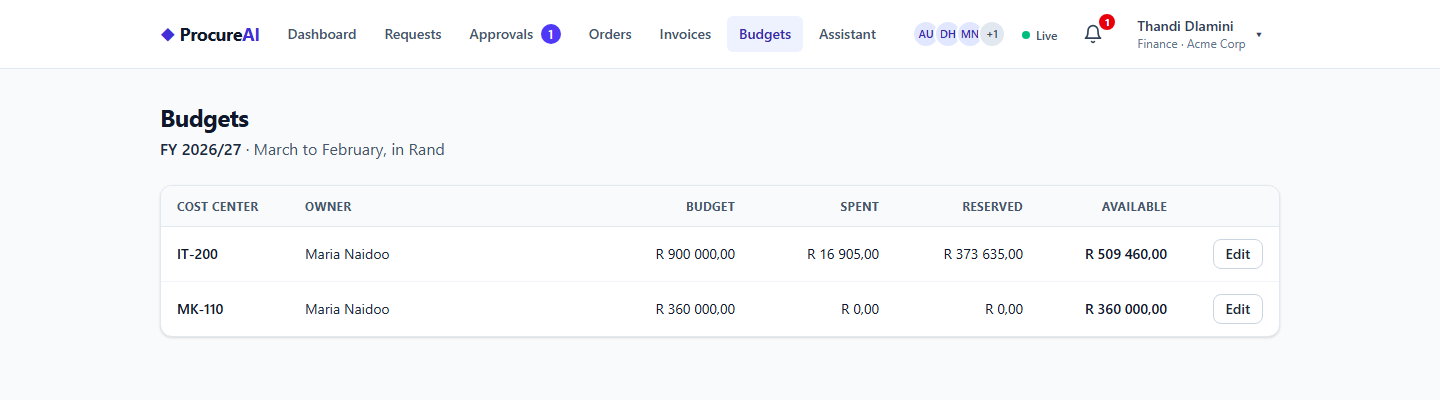
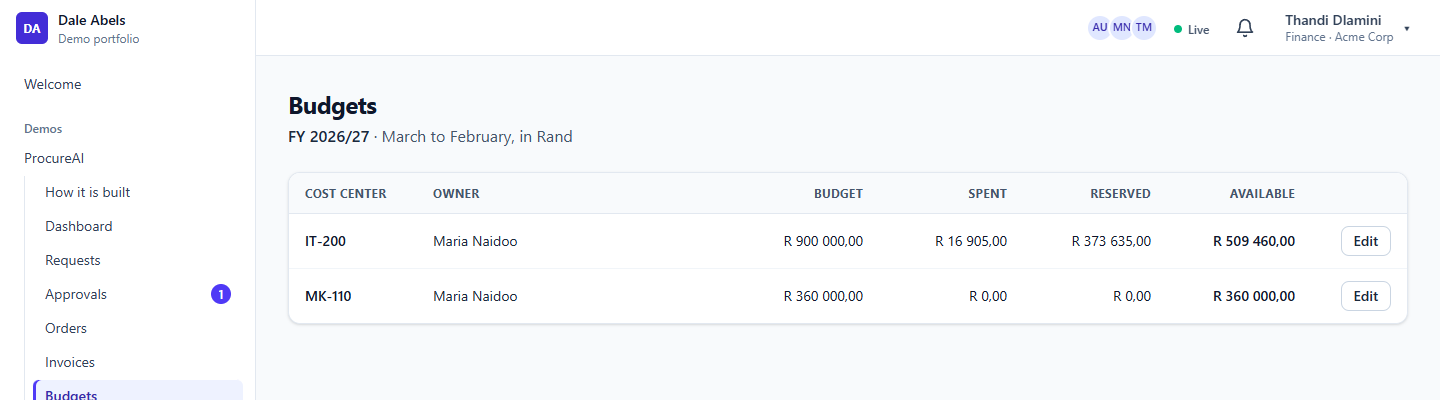
Plan 09 Task 4: docs and README for the new Welcome and demo flow, screenshots retaken

diff --git a/tools/readme/screenshots.js b/tools/readme/screenshots.js
@@ -13,7 +13,7 @@ const labels = { tom: 'Requester (Tom)', maria: 'Manager (Maria)', thandi: 'Fina
 async function login(browser, who) {
   const ctx = await browser.newContext({ ignoreHTTPSErrors: true, viewport: { width: 1440, height: 900 }, colorScheme: 'light' });
   const page = await ctx.newPage();
-  await page.goto(BASE);
+  await page.goto(BASE + '/demos/procurement');
   await page.getByTestId('demo-login').getByRole('button').filter({ has: page.getByTestId('demo-label').getByText(labels[who], { exact: true }) }).click({ timeout: T });
   await page.waitForURL(/\/app\/dashboard$/, { timeout: T });
   await page.getByTestId('user-menu').waitFor({ timeout: T });
@@ -36,6 +36,12 @@ const want = (n) => only.length === 0 || only.includes(n);
     const thandi = await login(browser, 'thandi');
     const admin = await login(browser, 'admin');
 
+    if (want('welcome') || want('about')) {
+      const ctx = await browser.newContext({ ignoreHTTPSErrors: true, viewport: { width: 1440, height: 900 }, colorScheme: 'light' });
+      const pub = await ctx.newPage();
+      if (want('welcome')) { await pub.goto(BASE + '/'); await settle(pub, 2000); await shot(pub, 'welcome'); }
+      if (want('about')) { await pub.goto(BASE + '/demos/procurement/about'); await settle(pub, 2000); await shot(pub, 'about'); }
+    }
     if (want('dashboard')) { await maria.goto(BASE + '/app/dashboard'); await settle(maria, 4000); await shot(maria, 'dashboard'); }
     if (want('approvals')) { await maria.goto(BASE + '/app/approvals'); await settle(maria); await shot(maria, 'approvals', 400); }
     if (want('request-detail')) {

diff --git a/README.md b/README.md
@@ -13,7 +13,7 @@ Kubernetes deployment by Argo CD.
 > **Live demo: <https://procure.daleabels.com>.** It also runs locally with [one command](#run-it-locally) or on a
 > [local Kubernetes cluster](#run-it-on-kubernetes).
 
-**No sign-up needed:** the welcome page has **Try a demo role** buttons (on the live demo and locally) (Requester Tom, Manager Maria, Department head, Finance
+**No sign-up needed:** open the **Procurement demo** from the welcome page; its start page has **Try a demo role** buttons (on the live demo and locally) (Requester Tom, Manager Maria, Department head, Finance
 Thandi, Admin, Globex manager Ben); one click signs you in as that person. Thandi works for two companies: through the normal
 Keycloak login she gets Keycloak's organization picker between the email and the password, while her button starts straight in
 Acme. All users and the seeded data: [docs/demo.md](docs/demo.md).
@@ -62,8 +62,10 @@ layer rule is broken. The services, the approval saga and the order-to-payment f
 
 ## Screenshots
 
-| Dashboard (live, who is online) | Request detail: workflow, "Maria Naidoo is also viewing" |
+| Welcome: the portfolio start page | ProcureAI: how it is built |
 |---|---|
+| ![Welcome](docs/screenshots/welcome.png) | ![How it is built](docs/screenshots/about.png) |
+| **Dashboard (live, who is online)** | **Request detail: workflow, "Maria Naidoo is also viewing"** |
 | ![Dashboard](docs/screenshots/dashboard.png) | ![Request detail](docs/screenshots/request-detail.png) |
 | **Three-way match: why an invoice does not match** | **Policy assistant: a tool step, a quoted table, sources** |
 | ![Invoice match](docs/screenshots/invoice-match.png) | ![Assistant](docs/screenshots/assistant.png) |

diff --git a/docs/demo.md b/docs/demo.md
@@ -4,7 +4,7 @@ Who you can sign in as, how the one-click demo login works, the seeded data, the
 
 ## Demo users
 
-**One click:** the welcome page shows **Try a demo role** buttons. Each signs you in as one demo user, no password typed.
+**One click:** the welcome page links to the Procurement demo (`/demos/procurement`), whose start page shows **Try a demo role** buttons. Each signs you in as one demo user, no password typed.
 Or sign in through Keycloak as usual; the demo password is the `keycloak-demo-password` parameter set in [Run it locally](local-run.md) (on Kubernetes the cluster Secrets are made from the same values).
 
 | Button | User | Tenant | Role |
@@ -35,7 +35,7 @@ browser flow), and then creates exactly the session the normal code-flow login c
 same `__Host-` cookie, claims, refresh and logout. The browser only ever sends a key from the configured list (`DemoLogin:Users`
 in the gateway's appsettings); the username and password come from the gateway's configuration. The password grant is deprecated
 in OAuth 2.1, so it is used for these listed demo users only and is **off by default** (`DemoLogin:Enabled`): when off, both
-`/bff/demo-login` endpoints answer 404 and the welcome page shows no buttons. The AppHost switches it on and generates the demo
+`/bff/demo-login` endpoints answer 404 and the Procurement demo page shows no buttons. The AppHost switches it on and generates the demo
 client's secret on the first run (AppHost user secret `Parameters:keycloak-demo-login-secret`).
 
 ### Demo data

diff --git a/docs/architecture.md b/docs/architecture.md
@@ -54,6 +54,10 @@ A client-side Angular 22 app (no SSR: every page after login is per user), Tailw
 SignalStore for state, and API clients generated from each service's OpenAPI document. Money is Rand, shown the
 South African way (`R 86 940,00`). What each role sees comes from permissions, not role names.
 
+The app sits in a portfolio frame with a left menu: a public **Welcome** page (`/`), the **Procurement demo** start page with the
+demo-role buttons (`/demos/procurement`), **How it is built** (`/demos/procurement/about`: diagram and technology), and under
+"Under the hood" links to the API (Swagger) and the Aspire dashboard. The signed-in app lives under `/app/...`.
+
 | Screen | Who | What it shows |
 |---|---|---|
 | Dashboard | everyone | tiles for what the user may see (approvals waiting, my open requests, budget used, invoices with a mismatch), recent activity, who is online |

diff --git a/docs/readme-assets.md b/docs/readme-assets.md
@@ -34,7 +34,7 @@ what happens when. Pass new ones with `-Cuts`. Keep the GIF under 5 MB.
 
 ## 3. The screenshots
 
-[`tools/readme/screenshots.js`](../tools/readme/screenshots.js) signs in with the demo buttons, opens each screen in a light theme at
+[`tools/readme/screenshots.js`](../tools/readme/screenshots.js) takes the public Welcome and About pages, signs in with the demo buttons on `/demos/procurement`, opens each screen in a light theme at
 1440 x 900 and saves `docs/screenshots/<name>.png`. It needs `playwright-core` (for example the copy inside the global `@playwright/cli`)
 and a Chromium:
 
